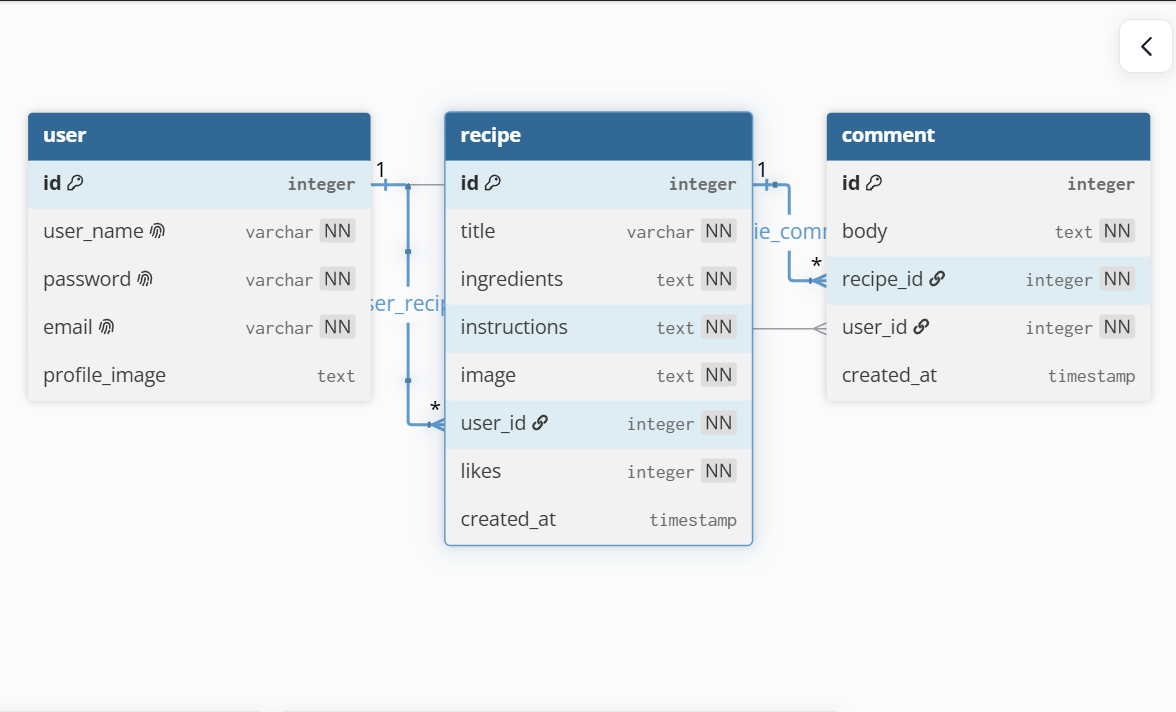
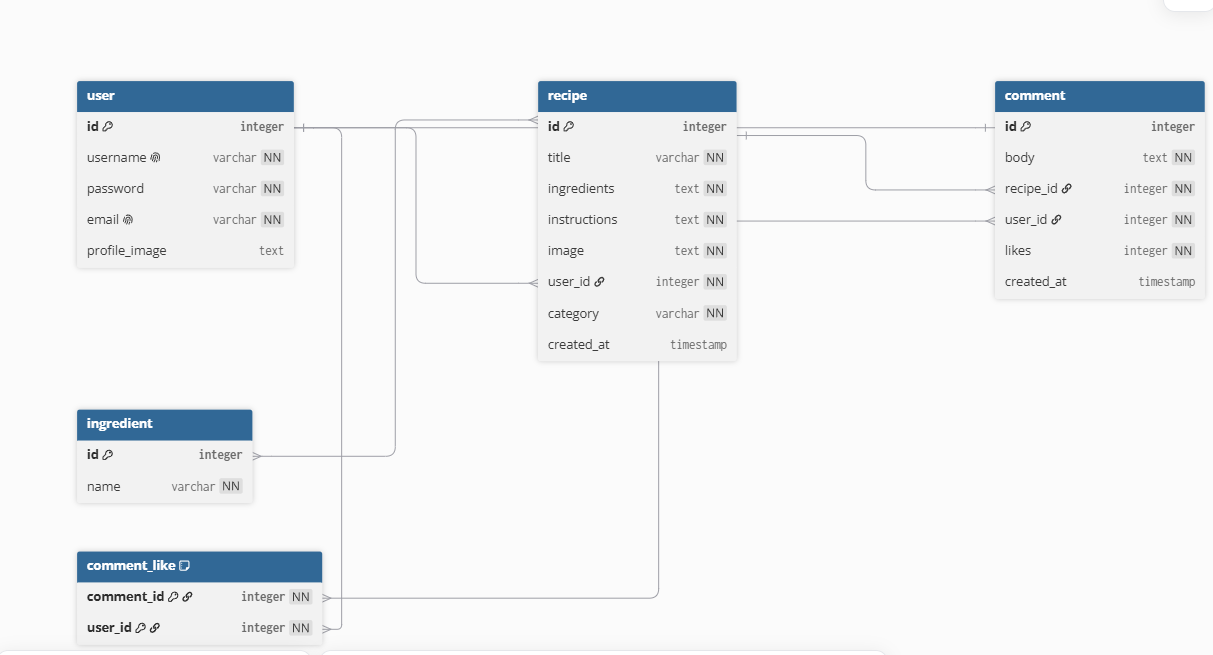
updated erd to include ingredient and recipe many to many relationship and comment likes

diff --git a/planning/entity_relationship_diagram.md b/planning/entity_relationship_diagram.md
@@ -6,12 +6,12 @@ Reference the Creating an Entity Relationship Diagram final project guide in the
 
 Table user{
   id integer [primary key]
-  user_name varchar unique [not null]
-  password varchar unique [not null]
-  email varchar unique   [not null]
+  username varchar unique [not null]
+  password varchar [not null]
+  email varchar unique [not null]
   profile_image text 
-
 }
+
 Table recipe{
   id integer [primary key]
   title varchar [not null]
@@ -19,7 +19,7 @@ Table recipe{
   instructions text [not null]
   image text [not null]
   user_id integer [not null]
-  likes integer [not null]
+  category varchar [not null]
   created_at timestamp
 }
 
@@ -28,18 +28,36 @@ Table comment{
   body text [not null]
   recipe_id integer [not null]
   user_id integer [not null]
+  likes integer [not null]
   created_at timestamp
-
 }
 
+Table comment_like{
+  comment_id integer [primary key, not null]
+  user_id integer [primary key, not null]
+}
+
+Table ingredient{
+  id integer [primary key]
+  name varchar [not null]
+}
+
+
+//many to one
+Ref user_liked_comment: comment_like.user_id > user.id
+
+//many to one
+REF like_for_comment: comment_like.comment_id > comment.id
+//many to many
+Ref recipe_ingredient: recipe.id <> ingredient.id
 //many to one
 Ref user_recipe : recipe.user_id > user.id
 //many to one
 Ref user_comment: comment.user_id > user.id
 
 //many to one
-Ref recipie_comment: comment.recipe_id > recipe.id
+Ref recipe_comment: comment.recipe_id > recipe.id
 
 ## Add the Entity Relationship Diagram
 
-![alt text](image.png)
+![ERD](image.png)